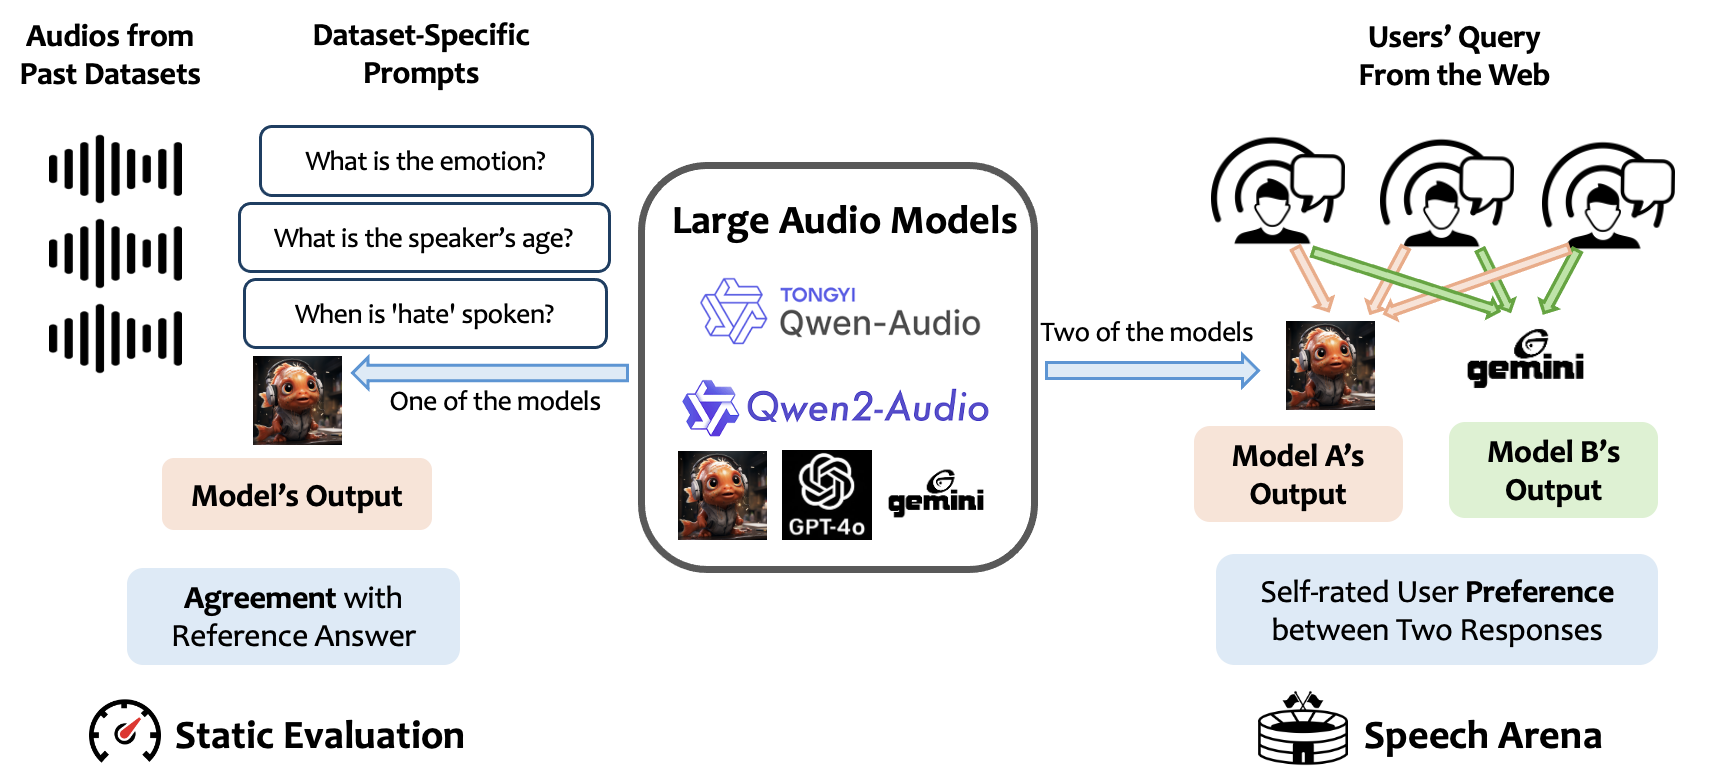
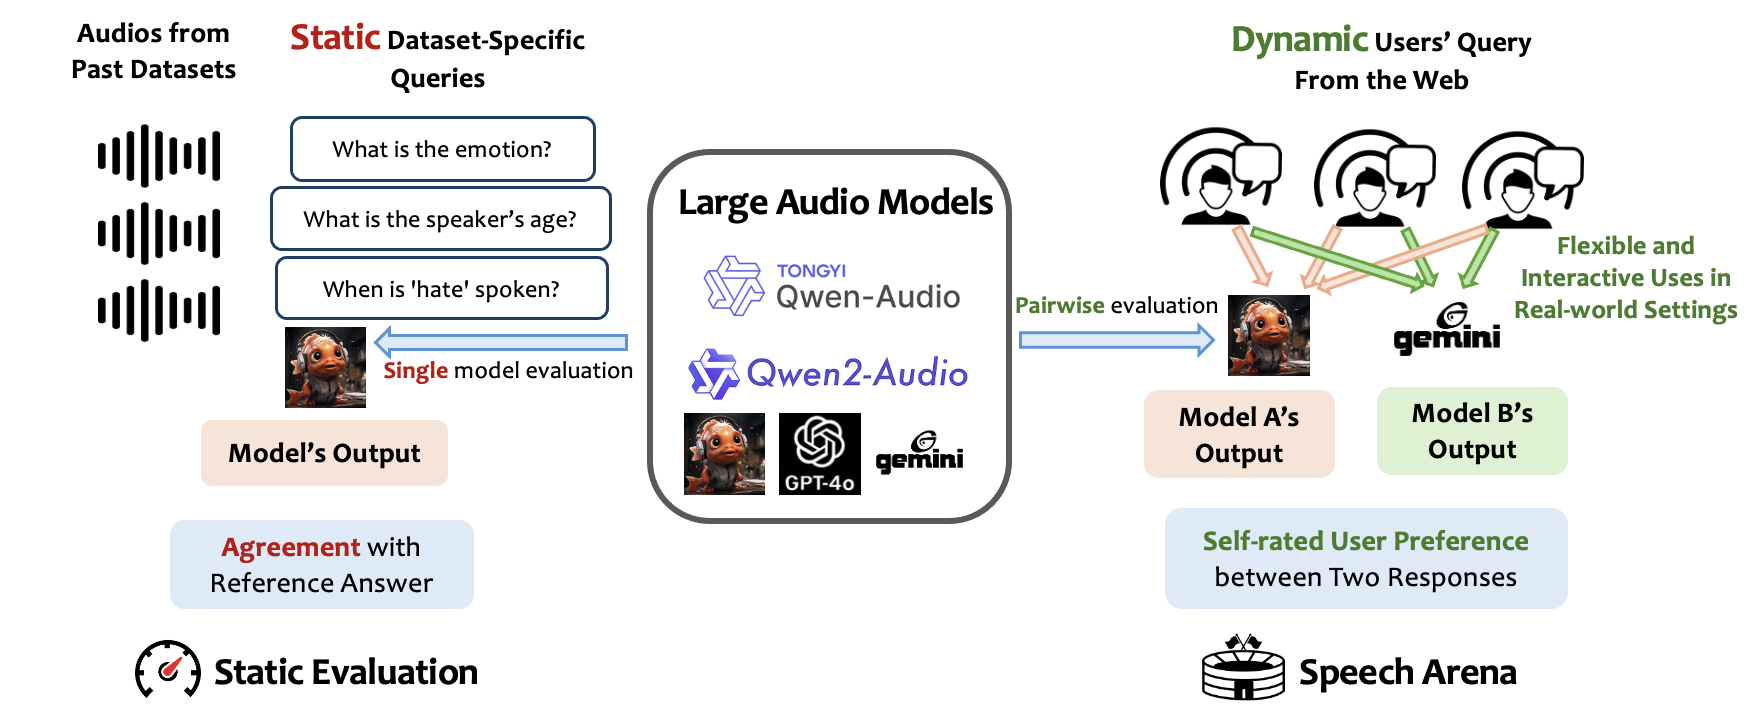
edit based on feedback

diff --git a/index.html b/index.html
@@ -2,14 +2,14 @@
 <html>
   <head>
     <meta charset="utf-8">
-    <title>Speech Arena</title>
+    <title>Talk Arena</title>
     <meta name="description" content="Distilling an End-to-End Voice Assistant from Speech Recognition Data Using Pretrained Models.">
 
     <!-- Facebook -->
     <meta property="og:url" content="https://salt-nlp.github.io/Speech-Arena-Project-Page/">
     <meta property="og:type" content="website">
-    <meta property="og:title" content="Speech Arena">
-    <meta property="og:description" content="Distilling an End-to-End Voice Assistant from Speech Recognition Data Using Pretrained Models.">
+    <meta property="og:title" content="Talk Arena">
+    <meta property="og:description" content="Interactive Evaluation of Large Audio Models.">
     <meta property="og:image" content="https://diva-audio.github.io/static/images/hero.png">
 
     <!-- Twitter -->
@@ -17,7 +17,7 @@
     <meta property="twitter:domain" content="diva-audio.github.io">
     <meta property="twitter:url" content="https://salt-nlp.github.io/Speech-Arena-Project-Page/">
     <meta name="twitter:title" content="DiVA (Distilled Voice Assistant)">
-    <meta name="twitter:description" content="Distilling an End-to-End Voice Assistant from Speech Recognition Data Using Pretrained Models.">
+    <meta name="twitter:description" content="Interactive Evaluation of Large Audio Models.">
     <meta name="twitter:image" content="https://diva-audio.github.io/static/images/hero.png">
 
     <link href="https://fonts.googleapis.com/css?family=Google+Sans|Noto+Sans|Castoro"
@@ -115,8 +115,8 @@
 	  <div class="columns is-centered">
             <div class="column has-text-centered">
               <h1 class="title is-1 publication-title" style="margin-bottom:0">
-		<img src="./static/speech-arena2.png" alt="A Cute Small Robot with DiVA Written on It's Chest" style="height: 10vw;"> Speech Arena</h1>
-	      <h2>Rethinking the Evaluation of Large Audio Models</h2>
+		<img src="./static/speech-arena2.png" alt="A Cute Small Robot with DiVA Written on It's Chest" style="height: 10vw;"> Talk Arena</h1>
+	      <h2>Interactive Evaluation of Large Audio Models</h2>
 	      
               <div class="is-size-5 publication-authors">
 		<span class="author-block">
@@ -167,14 +167,15 @@
 		<div class="container is-max-desktop">
 		  <div class="hero-body">
 		    <h4 class="subtitle has-text-centered">
-		      <span style="color: #820000">[TL;DR]</span> We evaluate <span
-          id="highlight"><b>large audio models</b></span> 
-          <br>using <span
-          id="highlight"><b>18 speech comprehension datasets</b></span> and an <span
-          id="highlight"><b>interactive arena platform</b></span>.</a>
+          <span style="color: #820000">[TL;DR]
+          </span> As AI Assistants' capability expands beyond text into other modalities like audio, they enable new forms of interactions between humans and AI. On the other hand, most benchmarks for audio processing primarily focus on transcribing and analyzing user speech. We introduce <span id="highlight"><b>Talk Arena</b></span>, an interactive open platform to evaluate Large Audio Models through <span id="highlight"><b>interations with users in real-world settings</b></span>. It helps to assess whether previous static benchmarks are valuable measures of model quality, or whether there is need for a new evaluation paradigm for Large Audio Models. We evaluate <span
+          id="highlight">large audio models</span> 
+          using <span
+          id="highlight"><b>15 speech comprehension datasets</b></span> and <span
+          id="highlight"><b>Talk Arena</b></span>.</a>
         </h4>
         <br>
-        <h3 class="subtitle has-text-centered">Try it out now: </h3>
+        <h3 class="subtitle has-text-centered" style="color: #820000"><b>Try it out now:</b> </h3>
         <a href="https://huggingface.co/WillHeld/DiVA-llama-3-v0-8b"
                        class="external-link button is-normal is-rounded is-dark">
                       <span class="icon">  
@@ -219,13 +220,11 @@
 	    <img src="./static/overview.png" alt="Description of the training pipeline. The trainable red modules are the Whisper Decoder, Query Tokens, and a Projection. The frozen Blue modules are the Whisper Encoder and all of Llama." style="width: 75vw;">
             <div class="content has-text-justified">
               <p>
-                <div class="columns is-centered has-text-centered"><p>Comparison between <b>Static Evaluation</b> and <b>Speech Arena</b>.</p></div>
+                <div class="columns is-centered has-text-centered"><p>Comparison between <b>Static Evaluation</b> and <b>Talk Arena</b>.</p></div>
 		
 		<br/><br/>
 
-		Recently large language models have gained greater capability in other modalities such as speech. Speech is a low-fraction interface and offers more opportunities of interaction with end users.
-                    There are many recent work trying to benchmark audio models with a set of carefully selected audio benchmarks. However, there lacks a platform to get real user interactions and preferences.
-                    To tackle this, we introduce Speech Arena, an open platform for evaluating Large Audio Models with pairwise human preferences. It helps to reveal insights on:
+		Recent efforts towards creating multimodal models have resulted in LLMs capable of processing audio inputs such as speech.  Speech is a low-friction interface which expands social and phonetic interaction opportunities with end users.  Prior work has benchmarked audio models on a set of disjoint static audio tests such as sarcasm or humor detection.  However such static benchmarks lack the complex dynamics of real user interactions and preferences.  Inspired by arena-style evaluations for text LLMs we introduce Speech Arena, an open platform for evaluating Large Audio Models with pairwise human preferences.  Speech Arena helps to reveal insights on:
                     <br><br>
                     <b>What use cases users are exploring with large audio models?</b> We can analyze user queries from the wild and compare the use case difference with traditional use cases of text LLMs.
                     <br><br>
@@ -253,15 +252,18 @@
             </div>
 	    <img src="./static/tasks.png" alt="Tasks and Datasets for Static Evaluation." style="height: 20vw;">
             <div class="content has-text-justified">
+              <br><br>
               <p>
-                To ensure robustness, we report the average of model performance using three different prompt variations. For public_sg_speech, openhermes, and alpaca datasets, we report the cfm. For other tasks, we report the macro F1 scores.
+                To ensure robustness, we report the average of model performance using three different prompt variations. For public_sg_speech, openhermes, and alpaca datasets, we report the <a href="https://arxiv.org/html/2402.11161v4">cfm</a> metric. For other tasks, we report the macro F1 scores.
 		
 	      </p>
             </div>
-	    <img src="./static/results.png" alt="Speech Translation results on COVOST2. Qwen 2 performs the strongest on the most tasks, with DiVA coming in at second." style="height: 30vw;">
+	    <img src="./static/results.png" alt="Static Evaluation Results." style="height: 24vw;">
             <div class="content has-text-justified">
               <p>
-                Close sourced models like <a href="https://arxiv.org/abs/2312.11805">Gemini</a> and <a href="https://arxiv.org/abs/2312.11805">GPT4o</a> generally tops the leaderboard. For open-sourced models, 
+                Close sourced models like <a href="https://arxiv.org/abs/2312.11805">Gemini</a> and <a href="https://arxiv.org/abs/2312.11805">GPT4o</a> generally tops the leaderboard. For open-sourced models, <a href="https://arxiv.org/abs/2407.10759">Qwen2-Audio</a> demonstrates outstanding performance on SpeechQA tasks and <a href="https://arxiv.org/abs/2410.02678">DiVA</a> shows excellent speech instruction following capability that outperforms all other models. 
+                <br>
+                We also perform evaluation for the sequential pipeline of <a href="https://arxiv.org/abs/2212.04356">Whisper</a> plus <a href="https://arxiv.org/abs/2407.21783">Llama3-8B-Instruct</a>. It shows relatively good performance for tasks like emotion recognition and speech QA, which means some of the data instances can be inferred from content only. However, for each and every task there are speech models outperforming it. This suggests that some information like emotion, relationship, and sarcasm can be embedded in vocal cues and requires understanding beyond content.
 
 	      </p>
             </div>
@@ -290,30 +292,31 @@
 	    <div class="content has-text-justified">
         <h3 class="title is-4">(A) User Preference</h3>
               <p>
-		As an initial effort, we collected over 500 votes using the arena with pairwise comparisons between Qwen2-Audio and DiVA (reported in <a href="https://arxiv.org/abs/2410.02678">Diva paper</a>).
+		As an initial effort, we collected over 500 votes using the talk arena for pairwise comparisons between Qwen2-Audio and DiVA (reported in <a href="https://arxiv.org/abs/2410.02678">Diva</a> paper).
         
   </p>
             </div>
 	    <img src="./static/user_study.svg" alt="QA results on Spoken Dialect QA and HeySQUAD. DiVA significantly (0.05) outperforms SALMONN and both Qwen Audio models." style="width: 40vw; height: 10vw;">
             <div class="content has-text-justified">
               <p>
-		DiVA is significantly preferred by users over Qwen2-Audio with a 72% win rate.
+		DiVA is significantly preferred by users over Qwen2-Audio with a <b>72%</b> win rate. We will continue to scale up the experiment with more interactions and model options.
 
 <h3 class="title is-4">(B) Comparison with Static Evaluation</h3>
-		We compare the result to that of static evaluation:
+		We compare the user preference result in interactive evaluation to that of static evaluation:
 	      </p>
             </div>
-	    <img src="./static/results.png" alt="Speech Translation results on COVOST2. Qwen 2 performs the strongest on the most tasks, with DiVA coming in at second." style="height: 30vw;">
+	    <img src="./static/results2.png" alt="Speech Translation results on COVOST2. Qwen 2 performs the strongest on the most tasks, with DiVA coming in at second." style="height: 15vw;">
             <div class="content has-text-justified">
               <p>
-    We can see that some static evaluation results align with the direction of user preference, for tasks like humor detection, emotion recognition, and relationship classification.
+                <br>
+    We can see that results on some of the static benchmarks align with the user preference, for tasks like <b>humor detection</b>, <b>emotion recognition</b>, <b>relationship classification</b> and <b>instruction following</b>.
 
 		<br/>
-Interestingly, for speech question answering tasks like cn-college-listen, Qwen2-Audio performs significantly better than DiVA but it is not reflective enought of the user preference.		
+Interestingly, for <b>speech question answering</b>, Qwen2-Audio performs better than DiVA datasets on both cn-college-listen and public_sg_speech datasets. However, this trend is <b>reversed</b> in the user preference results.		
 <h3 class="title is-4">(C) User Queries</h3>
 We also perform qualitative analysis for user voice queries and obtained some insights:
-<br>
-<b>Query Analysis.</b> 
+<br><br>
+<b>Topics of user queries.</b> 
 <br>
 We identify three common types of user queries:
 <br>
@@ -322,16 +325,14 @@ We identify three common types of user queries:
 2) <b>Knowledge expansion</b> questions like asking about theory of relativity. These queries need the audio model to be well equipped with a diverse and comprehensive knowledge base to provide factual and detailed information across a wide range of topics.
 <br>
 3) <b>Personal sharing</b> on recent dilemma, personal opinions and habits. These queries are often longer and more elaborated. To provide good responses, the voice assistant may need to make inferences about the users' tone and capture details well enough.
-<br>
+<br><br>
 <b>Difference from text queries.</b> 
 <br>
 Unlike how users interact with text-only LLMs through typing, we found some unique aspects in speech interaction:
 <br>
 1) <b>Background noises</b> like resume building tips, weather and time checking. These queries are mostly short (one sentence only). It usually requires the audio model to ask more about the context to provide a personalized response.
 <br>
-2) <b>Vocal cues</b> questions like asking about theory of relativity. These queries need the audio model to be well equipped with a diverse and comprehensive knowledge base to provide factual and detailed information across a wide range of topics.
-<br>
-3) <b>Personal sharing</b> on recent dilemma, personal opinions and habits. These queries are often longer and more elaborated. To provide good responses, the voice assistant may need to make inferences about the users' tone and capture details well enough.
+2) <b>Vocal cues</b> like pauses, laghter, tone, pitch, and accent. These features deliver social information about the speaker's emotion and identity beyond words.
 
 </p>
             </div>
@@ -366,8 +367,8 @@ Unlike how users interact with text-only LLMs through typing, we found some uniq
       <div class="container is-max-desktop content">
 	<h2 class="title">BibTeX</h2>
 	<pre><code>
-    @misc{li2024speecharena,
-      title={Speech Arena: Rethinking the Evaluation of Large Audio Models}, 
+    @misc{li2024talkarena,
+      title={Talk Arena: Interactive Evaluation of Large Audio Models}, 
       author={Minzhi Li and Will Held and Michael Ryan and Hao Zhu and Diyi Yang},
       year={2024}
     }
@@ -381,7 +382,7 @@ Unlike how users interact with text-only LLMs through typing, we found some uniq
 	<div class="columns is-centered">
 	  <div class="column is-8">
             <div class="content">
-	      <p> We appreciate <a href="https://x.com/dlwh">David Hall</a> for his advice and code review on the core Levanter Framework and implementation of Audio Infrastructure in Levanter. We additionally appreciate the <a href="https://sites.research.google/trc/about/">TPU Research Cloud</a> for their free computing support without which this projet would not be possible. Further computing support was provided by <a href="https://hai.stanford.edu/call-google-cloud-credit-proposals">Stanford HAI Google Cloud Credit Program</a>
+	      <p> We appreciate the computing support provided by <a href="https://hai.stanford.edu/call-google-cloud-credit-proposals">Stanford HAI Google Cloud Credit Program</a>
 	      
               <p>
 		This website is licensed under a <a rel="license"
